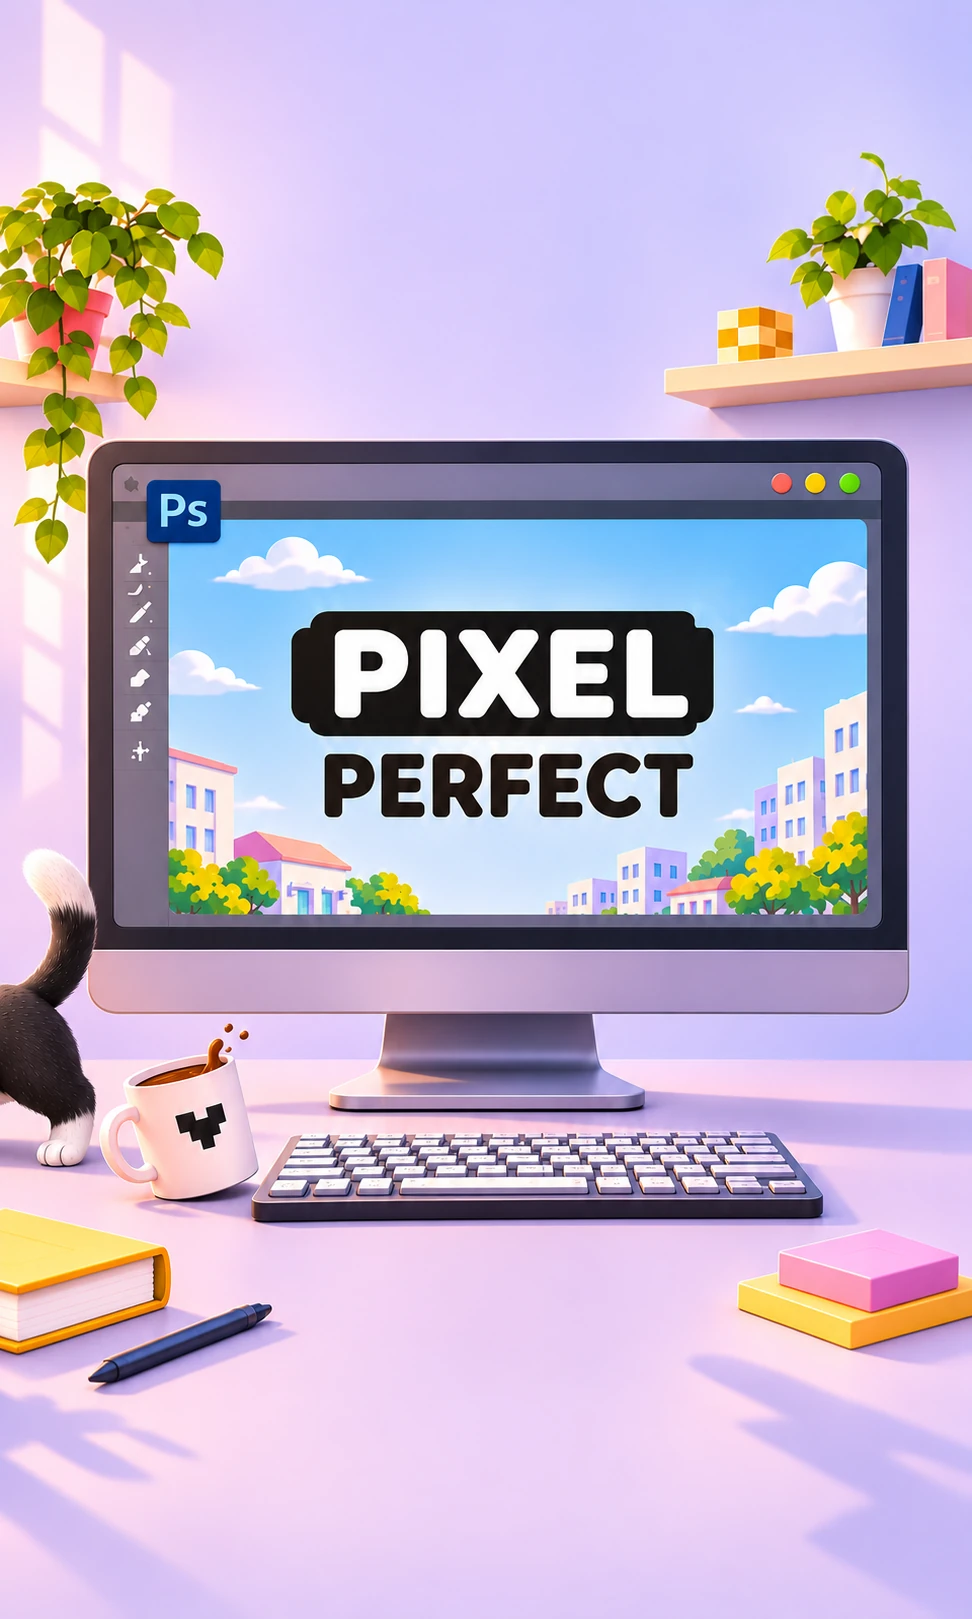
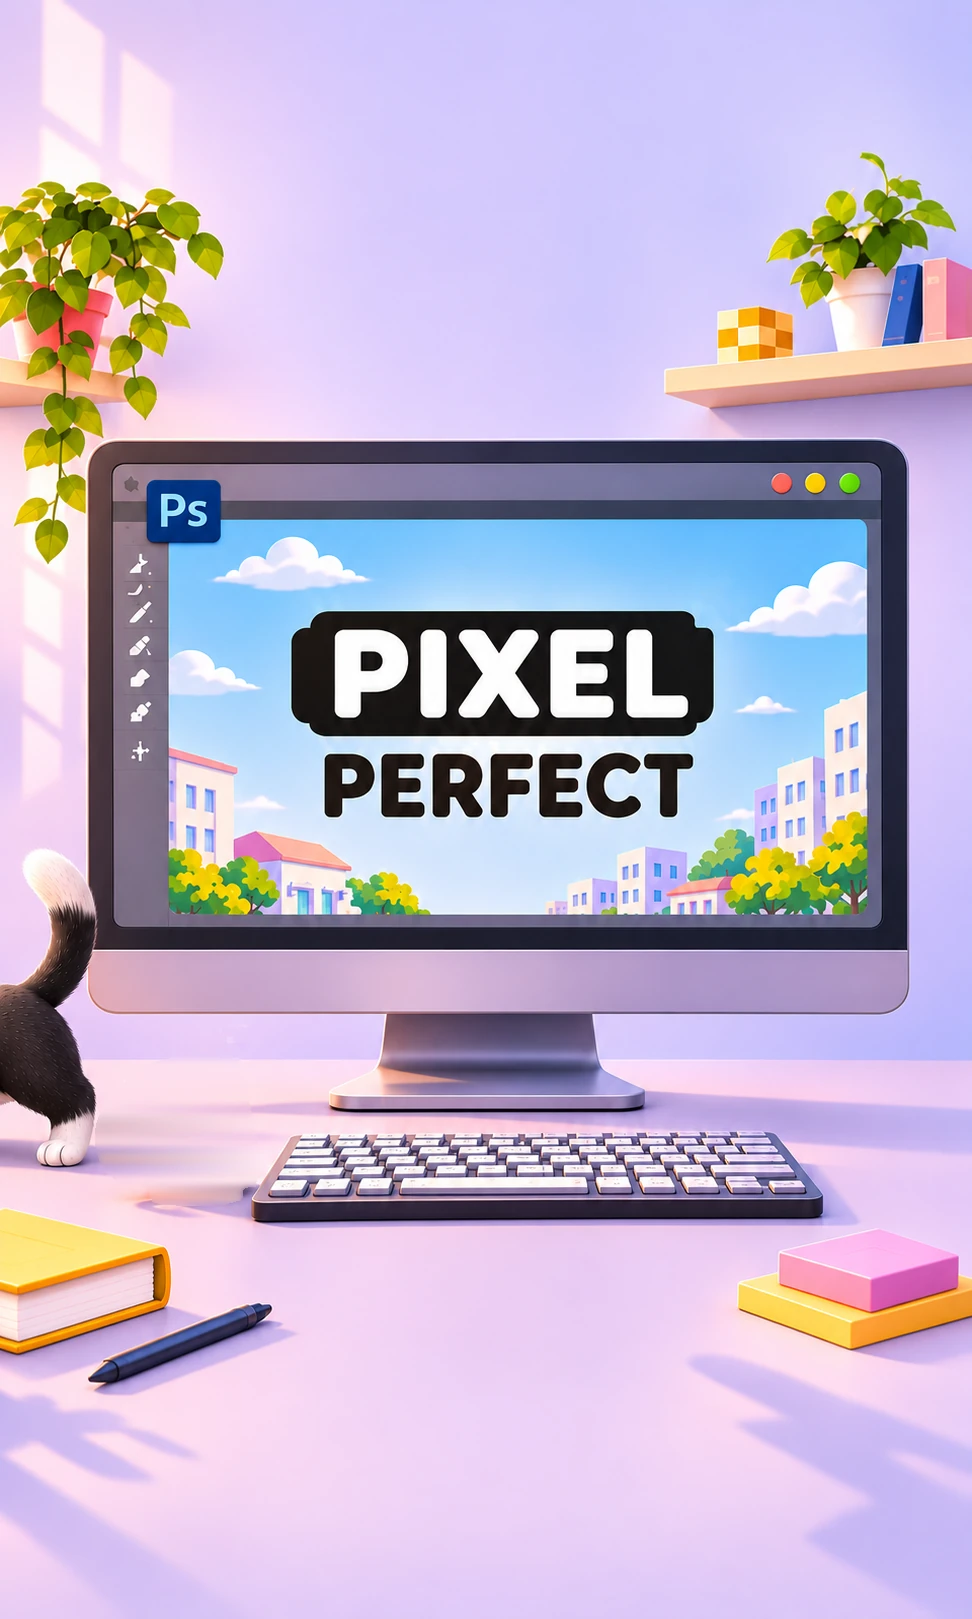
Welcome: coffee mug easter egg (heartbeat, hover, tap -> portfolio)
- Mug cut into its own layer (GrabCut seeded by traced outline); handle gap moves with it
- Background behind the mug rebuilt from surrounding wall/desk
- Pixel heart traced to a vector SVG; double-beat loop (118% / 115% + pause),
  rendered at 140% and scaled down so it stays crisp at peak
- Hover (hover-capable devices): lift + 4% scale + soft shadow, pointer cursor
- Tap/click: press squash + heart pulse (WAAPI), opens yotameliraz.co.il in a new tab
  via a native <a target=_blank>; enlarged invisible touch target

Claude-Session: https://claude.ai/code/session_01UxEJfKJ7e9nQVjWFGnjkdX

Changed region(s): [[0.0926, 0.6177, 0.2778, 0.7721]]

diff --git a/src/screens/welcome/CoffeeMug.tsx b/src/screens/welcome/CoffeeMug.tsx
@@ -1,0 +1,73 @@
+import { useRef } from 'react';
+import { MUG_BOX, MUG_HEART_BOX, PORTFOLIO_URL, boxToPercent } from './layout';
+import { asset } from '../../app/asset';
+import { copy } from '../../copy/he';
+import './coffee-mug.css';
+
+/** Heart box relative to the mug box. */
+const heartInMug = boxToPercent(
+  { ...MUG_HEART_BOX, x: MUG_HEART_BOX.x - MUG_BOX.x, y: MUG_HEART_BOX.y - MUG_BOX.y },
+  MUG_BOX,
+);
+
+/**
+ * Coffee mug easter egg: the pixel heart beats continuously; hovering lifts the
+ * mug (hover-capable devices only); a tap/click plays a press + heart pulse and
+ * opens the portfolio in a new tab.
+ *
+ * It is a real <a target="_blank"> so the browser opens the tab natively on
+ * every device (no popup-blocker issues). The press animation starts on
+ * pointerdown, so it is visible before the new tab takes over.
+ */
+export function CoffeeMug() {
+  const pressRef = useRef<HTMLSpanElement>(null);
+  const pulseRef = useRef<HTMLSpanElement>(null);
+
+  const playPress = () => {
+    if (window.matchMedia('(prefers-reduced-motion: reduce)').matches) return;
+    pressRef.current?.animate(
+      [
+        { transform: 'scale(1)' },
+        { transform: 'scale(0.94)', offset: 0.35 },
+        { transform: 'scale(1)' },
+      ],
+      { duration: 320, easing: 'cubic-bezier(0.3, 0.7, 0.4, 1)' },
+    );
+    pulseRef.current?.animate(
+      [{ transform: 'scale(1)' }, { transform: 'scale(1.15)', offset: 0.4 }, { transform: 'scale(1)' }],
+      { duration: 360, easing: 'ease-in-out' },
+    );
+  };
+
+  return (
+    <a
+      className="mug"
+      href={PORTFOLIO_URL}
+      target="_blank"
+      rel="noopener noreferrer"
+      aria-label={copy.welcome.portfolio}
+      style={boxToPercent(MUG_BOX)}
+      draggable={false}
+      onPointerDown={playPress}
+      onKeyDown={(e) => {
+        if (e.key === 'Enter') playPress();
+      }}
+    >
+      <span className="mug__lift">
+        <span className="mug__press" ref={pressRef}>
+          <img className="mug__img" src={asset('assets/welcome/mug.webp')} alt="" draggable={false} />
+          <span className="mug__heart" style={heartInMug}>
+            <span className="mug__heart-pulse" ref={pulseRef}>
+              <img
+                className="mug__heart-beat"
+                src={asset('assets/welcome/mug-heart.svg')}
+                alt=""
+                draggable={false}
+              />
+            </span>
+          </span>
+        </span>
+      </span>
+    </a>
+  );
+}

diff --git a/src/screens/welcome/coffee-mug.css b/src/screens/welcome/coffee-mug.css
@@ -1,0 +1,114 @@
+/* Coffee mug easter egg. --u = one source-image pixel (from .welcome__stage). */
+.mug {
+  position: absolute;
+  display: block;
+  cursor: pointer;
+  outline: none;
+  -webkit-tap-highlight-color: transparent;
+  -webkit-touch-callout: none;
+  touch-action: manipulation;
+}
+
+/* larger invisible touch target around the mug */
+.mug::before {
+  content: '';
+  position: absolute;
+  inset: calc(var(--u) * -14);
+}
+
+.mug__lift,
+.mug__press {
+  position: absolute;
+  inset: 0;
+  display: block;
+  transform-origin: 50% 88%;
+}
+
+.mug__lift {
+  transition:
+    transform 220ms cubic-bezier(0.3, 0.7, 0.4, 1.2),
+    filter 220ms ease-out;
+}
+
+@media (hover: hover) {
+  .mug:hover .mug__lift {
+    transform: translateY(calc(var(--u) * -5)) scale(1.04);
+    filter: drop-shadow(0 calc(var(--u) * 8) calc(var(--u) * 8) rgba(110, 80, 160, 0.3));
+  }
+}
+
+.mug:focus-visible .mug__lift {
+  filter: drop-shadow(0 0 4px rgba(60, 40, 120, 0.7));
+}
+
+.mug__img {
+  position: absolute;
+  inset: 0;
+  width: 100%;
+  height: 100%;
+  display: block;
+}
+
+/* ---- heart ---- */
+.mug__heart {
+  position: absolute;
+  display: block;
+}
+
+.mug__heart-pulse {
+  position: absolute;
+  inset: 0;
+  display: block;
+}
+
+/*
+ * Heartbeat: double beat (118%, 115%) then a pause. 1.4s cycle.
+ * The vector is laid out at 140% and scaled down at rest, so the browser
+ * rasterises it large and every beat is a downscale: edges stay crisp.
+ */
+.mug__heart-beat {
+  position: absolute;
+  left: -20%;
+  top: -20%;
+  width: 140%;
+  height: 140%;
+  display: block;
+  --rest: calc(1 / 1.4);
+  transform: scale(var(--rest));
+  animation: mug-heartbeat 1.4s infinite;
+}
+
+@keyframes mug-heartbeat {
+  0% {
+    transform: scale(var(--rest));
+    animation-timing-function: cubic-bezier(0.3, 0, 0.5, 1);
+  }
+  9% {
+    transform: scale(calc(var(--rest) * 1.18));
+    animation-timing-function: cubic-bezier(0.5, 0, 0.6, 1);
+  }
+  19% {
+    transform: scale(var(--rest));
+    animation-timing-function: cubic-bezier(0.3, 0, 0.5, 1);
+  }
+  28% {
+    transform: scale(calc(var(--rest) * 1.15));
+    animation-timing-function: cubic-bezier(0.5, 0, 0.6, 1);
+  }
+  40%,
+  100% {
+    transform: scale(var(--rest));
+  }
+}
+
+@media (prefers-reduced-motion: reduce) {
+  .mug__lift {
+    transition: filter 150ms ease-out;
+  }
+  .mug:hover .mug__lift {
+    transform: none;
+  }
+  .mug__heart-beat {
+    animation: none;
+  }
+}

diff --git a/src/screens/welcome/layout.ts b/src/screens/welcome/layout.ts
@@ -8,7 +8,13 @@ export const TITLE_PIXEL_BOX = { x: 697, y: 586, width: 39, height: 39 } as cons
 /** Start button: source 515x199, placed centred on the desk below the keyboard. */
 export const START_BUTTON_BOX = { x: 256, y: 1405, width: 461, height: 178 } as const;
 
-type Box = { x: number; y: number; width: number; height: number };
+/** Coffee mug (portfolio easter egg) and the pixel heart printed on it. */
+export const MUG_BOX = { x: 98, y: 1023, width: 162, height: 180 } as const;
+export const MUG_HEART_BOX = { x: 175, y: 1102, width: 52, height: 48 } as const;
+
+export const PORTFOLIO_URL = 'https://yotameliraz.co.il';
+
+type Box ={ x: number; y: number; width: number; height: number };
 
 /** Source-pixel box → CSS percentages of the canvas, so it scales with the art. */
 export function boxToPercent(box: Box, canvas: { width: number; height: number } = WELCOME_CANVAS) {

diff --git a/src/screens/welcome/WelcomeScreen.tsx b/src/screens/welcome/WelcomeScreen.tsx
@@ -3,6 +3,7 @@ import type React from 'react';
 import { START_BUTTON_BOX, WELCOME_CANVAS, boxToPercent } from './layout';
 import { asset } from '../../app/asset';
 import { TitlePixel } from './TitlePixel';
+import { CoffeeMug } from './CoffeeMug';
 import { copy } from '../../copy/he';
 import './welcome.css';
 
@@ -39,6 +40,7 @@ export function WelcomeScreen({ onStart }: Props) {
       <div className="welcome__stage">
         <img className="welcome__art" src={bg} alt="" draggable={false} />
         <TitlePixel />
+        <CoffeeMug />
         <h1 className="visually-hidden">PIXEL PERFECT</h1>
         <button
           type="button"

diff --git a/src/copy/he.ts b/src/copy/he.ts
@@ -2,5 +2,6 @@
 export const copy = {
   welcome: {
     start: 'התחלת משחק',
+    portfolio: 'לתיק העבודות של יותם אלירז (נפתח בכרטיסייה חדשה)',
   },
 } as const;

diff --git a/scripts/extract_welcome.py b/scripts/extract_welcome.py
@@ -7,6 +7,8 @@ Inputs (art/):
 Outputs (public/assets/welcome/):
   welcome-bg.webp          background with the small title pixel removed
   title-pixel.webp         the small black pixel shape next to the title (animated in code)
+  mug.webp                 coffee mug (portfolio easter egg), heart painted out
+  mug-heart.svg            the mug's pixel heart as a vector (beats in code)
   start-button.webp
   welcome-ext-top.webp     strips that continue the art's top / bottom edge,
   welcome-ext-bottom.webp  stretched to fill phones taller than the art
@@ -50,6 +52,96 @@ near[y0 - 20:y1 + 20, x0 - 40:x1 + 20] = 1
 badge = cv2.dilate(dark & near & (1 - shape), np.ones((7, 7), np.uint8)) & (1 - hole)
 bg = cv2.inpaint(src, (hole | badge) * 255, 7, cv2.INPAINT_TELEA)
 bg[badge.astype(bool)] = src[badge.astype(bool)]
+
+# ---- coffee mug + heart -------------------------------------------------------
+# Mug is cut out with GrabCut seeded by a hand-traced outline (crop coords from a
+# 3x zoom at offset 82,1002). The pixel heart is traced into a vector polygon so
+# it stays sharp while it scales; it is removed from the mug layer.
+def P(pts):
+    return np.array([[82 + x / 3, 1002 + y / 3] for x, y in pts], np.float32).round().astype(np.int32)
+
+outline = P([(128, 232), (200, 193), (300, 168), (400, 158), (440, 162), (462, 180), (472, 232),
+             (526, 500), (523, 537), (468, 566), (380, 592), (260, 592), (212, 572), (200, 535),
+             (130, 532), (78, 505), (55, 440), (60, 370), (95, 322), (140, 312)])
+handle_gap = P([(112, 360), (150, 334), (186, 350), (196, 498), (150, 506), (110, 472), (100, 420)])
+splash = P([(375, 215), (390, 140), (410, 112), (430, 125), (420, 180), (410, 215)])
+drops = [((442, 78), 5), ((490, 100), 5), ((440, 143), 4)]
+
+seed = np.zeros((H, W), np.uint8)
+cv2.fillPoly(seed, [outline, splash], 1)
+for c, rad in drops:
+    cv2.circle(seed, tuple(int(v) for v in P([c])[0]), rad, 1, -1)
+cv2.fillPoly(seed, [handle_gap], 0)
+gc = np.full((H, W), cv2.GC_BGD, np.uint8)
+gc[cv2.dilate(seed, np.ones((7, 7), np.uint8)) == 1] = cv2.GC_PR_BGD
+gc[seed == 1] = cv2.GC_PR_FGD
+gc[cv2.erode(seed, np.ones((9, 9), np.uint8)) == 1] = cv2.GC_FGD
+cv2.fillPoly(gc, [cv2.convexHull(handle_gap)], int(cv2.GC_BGD))
+cv2.grabCut(src, gc, None, np.zeros((1, 65)), np.zeros((1, 65)), 10, cv2.GC_INIT_WITH_MASK)
+mug = ((gc == cv2.GC_FGD) | (gc == cv2.GC_PR_FGD)).astype(np.uint8)
+mug = cv2.morphologyEx(mug, cv2.MORPH_OPEN, np.ones((3, 3), np.uint8))
+# the gap inside the handle travels with the mug (no seam when it moves)
+ff = mug * 255
+cv2.floodFill(ff, np.zeros((H + 2, W + 2), np.uint8), (0, 0), 255)
+mug = mug | (ff == 0).astype(np.uint8)
+
+# heart: dark component on the mug
+hr = np.zeros((H, W), np.uint8)
+hr[1095:1160, 168:236] = 1
+heart = (src.max(axis=2) < 110).astype(np.uint8) & hr
+n, lab, st, _ = cv2.connectedComponentsWithStats(heart)
+heart = (lab == 1 + np.argmax(st[1:, cv2.CC_STAT_AREA])).astype(np.uint8)
+ys, xs = np.where(heart)
+hx0, hy0, hx1, hy1 = xs.min(), ys.min(), xs.max() + 1, ys.max() + 1
+heart_rgb = np.median(src[heart == 1], axis=0)[::-1]
+S, pad = 8, 3
+patch = src[hy0 - pad:hy1 + pad, hx0 - pad:hx1 + pad].max(axis=2).astype(np.float32)
+up = cv2.resize(patch, None, fx=S, fy=S, interpolation=cv2.INTER_CUBIC)
+cs, _ = cv2.findContours((up < 128).astype(np.uint8), cv2.RETR_EXTERNAL, cv2.CHAIN_APPROX_NONE)
+poly = cv2.approxPolyDP(max(cs, key=cv2.contourArea), 0.7 * S, True)[:, 0, :] / S - pad
+hw, hh = hx1 - hx0, hy1 - hy0
+pts = " ".join(f"{x:.2f},{y:.2f}" for x, y in poly)
+heart_fill = "#%02x%02x%02x" % tuple(int(v) for v in heart_rgb)
+with open(f"{OUT}/mug-heart.svg", "w") as f:
+    f.write(f'<svg xmlns="http://www.w3.org/2000/svg" viewBox="-1 -1 {hw + 2} {hh + 2}" '
+            f'shape-rendering="geometricPrecision"><polygon points="{pts}" fill="{heart_fill}"/></svg>\n')
+
+# mug layer with the heart (and its light rim) painted out
+heart_hole = cv2.dilate(heart, np.ones((9, 9), np.uint8))
+mug_img = cv2.inpaint(src, heart_hole * 255, 5, cv2.INPAINT_TELEA)
+alpha = cv2.GaussianBlur(mug.astype(np.float32), (3, 3), 0)
+ys, xs = np.where(alpha > 0.02)
+mx0, my0, mx1, my1 = xs.min(), ys.min(), xs.max() + 1, ys.max() + 1
+mug_rgba = np.dstack([cv2.cvtColor(mug_img, cv2.COLOR_BGR2RGB), (alpha * 255).astype(np.uint8)])
+Image.fromarray(mug_rgba[my0:my1, mx0:mx1]).save(f"{OUT}/mug.webp", "WEBP", lossless=True, method=6)
+
+# background under the mug: rebuild wall/desk row by row by interpolating
+# between the nearest clean wall/desk pixels left and right of the mug
+# (cat, keyboard, monitor stand and other dark objects are skipped).
+mug_hole = cv2.dilate(mug, np.ones((9, 9), np.uint8)).astype(bool)
+ys, xs = np.where(mug_hole)
+zx0, zx1 = max(xs.min() - 60, 0), min(xs.max() + 60, W)
+clean = (src.max(axis=2) > 175) & (src.min(axis=2) > 150) & ~mug_hole  # light wall / desk
+layer = bg.astype(np.float32)
+for y in range(ys.min(), ys.max() + 1):
+    row = np.where(mug_hole[y])[0]
+    if row.size == 0:
+        continue
+    a, b = row.min(), row.max()
+    left = [x for x in range(a - 1, zx0, -1) if clean[y, x]][:6]
+    right = [x for x in range(b + 1, zx1) if clean[y, x]][:6]
+    cl = src[y, left].mean(axis=0) if left else None
+    cr = src[y, right].mean(axis=0) if right else None
+    cl = cr if cl is None else cl
+    cr = cl if cr is None else cr
+    t = np.linspace(0, 1, b - a + 1)[:, None]
+    seg = cl * (1 - t) + cr * t
+    layer[y, a:b + 1][mug_hole[y, a:b + 1]] = seg[mug_hole[y, a:b + 1]]
+# soften row-to-row steps inside the filled area only
+soft = cv2.GaussianBlur(layer, (0, 0), 3)
+bg = bg.copy()
+bg[mug_hole] = soft[mug_hole].clip(0, 255).astype(np.uint8)
+
 Image.fromarray(cv2.cvtColor(bg, cv2.COLOR_BGR2RGB)).save(
     f"{OUT}/welcome-bg.webp", "WEBP", quality=90, method=6
 )
@@ -77,3 +169,5 @@ edge_strip(bg[-6:], False).save(f"{OUT}/welcome-ext-bottom.webp", "WEBP", qualit
 print(f"canvas {W}x{H}")
 print(f"title pixel x={px0} y={py0} w={px1 - px0} h={py1 - py0}")
 print(f"button {btn.size[0]}x{btn.size[1]}")
+print(f"mug x={mx0} y={my0} w={mx1 - mx0} h={my1 - my0}")
+print(f"heart svg box x={hx0 - 1} y={hy0 - 1} w={hw + 2} h={hh + 2} fill={heart_fill}")
